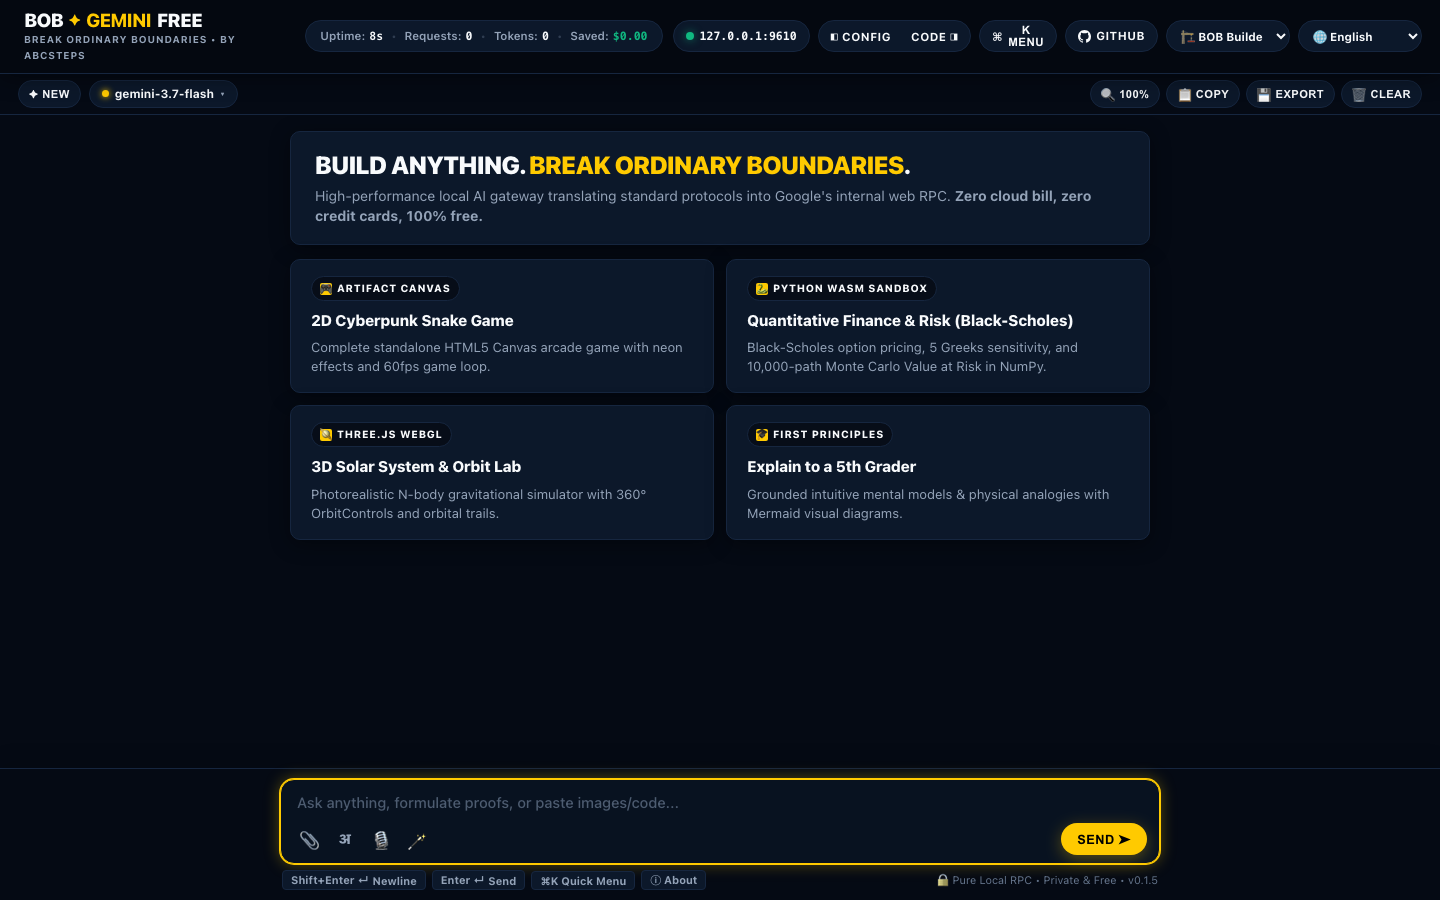
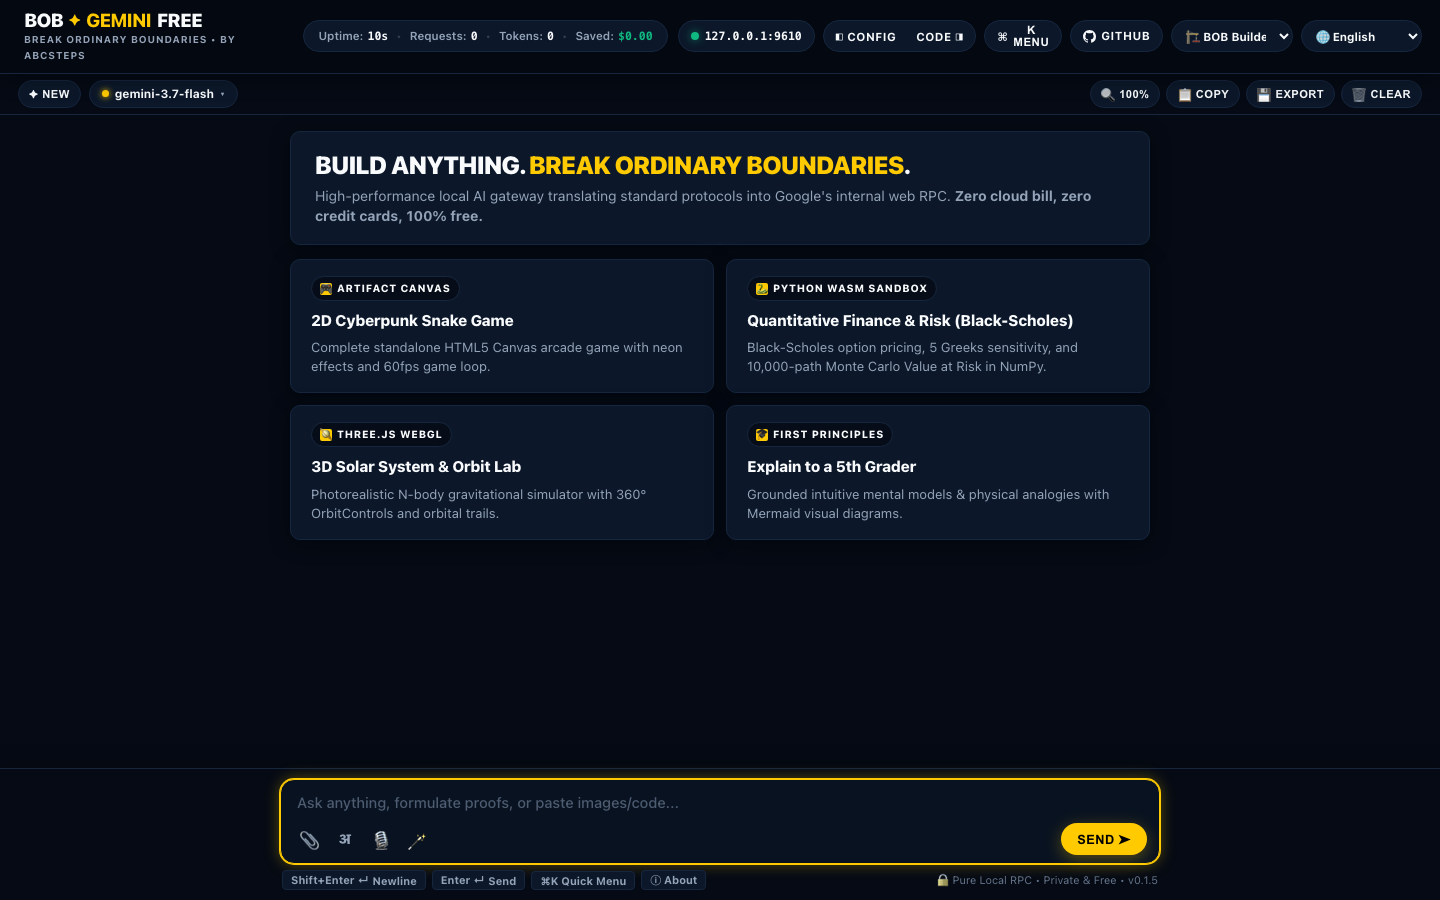
docs: sync README.md, README.hi.md, and polish mobile footer padding for v0.1.5 release

Changed region(s): [[0.2188, 0.0311, 0.9688, 0.0622]]

diff --git a/internal/server/playground.html b/internal/server/playground.html
@@ -2409,7 +2409,7 @@ tr:hover td { background: rgba(255, 255, 255, 0.02); }
 
   /* Spacious Studio Input Capsule on Mobile */
   .studio-input-area {
-    padding: 6px 10px max(8px, env(safe-area-inset-bottom)) 10px;
+    padding: 6px 10px max(6px, env(safe-area-inset-bottom)) 10px;
     box-shadow: 0 -4px 16px rgba(0, 0, 0, 0.15);
     width: 100%;
     max-width: 100%;
@@ -2418,6 +2418,7 @@ tr:hover td { background: rgba(255, 255, 255, 0.02); }
   .studio-input-container {
     width: 100%;
     max-width: 100%;
+    gap: 4px;
   }
   .studio-input-capsule {
     border-radius: 12px;
@@ -2476,16 +2477,19 @@ tr:hover td { background: rgba(255, 255, 255, 0.02); }
   }
   .input-footer {
     justify-content: center;
-    padding-top: 2px;
+    padding: 2px 0 0 0;
+    margin: 0;
   }
   .footer-badges {
     justify-content: center;
     flex-wrap: wrap;
     gap: 4px;
+    margin: 0;
   }
   .footer-action-btn {
-    font-size: 0.64rem;
-    padding: 3px 8px;
+    font-size: 0.65rem;
+    padding: 2px 8px;
+    line-height: 1.2;
     touch-action: manipulation;
   }
   .sidebar-panel,

diff --git a/web/index.html b/web/index.html
@@ -2409,7 +2409,7 @@ tr:hover td { background: rgba(255, 255, 255, 0.02); }
 
   /* Spacious Studio Input Capsule on Mobile */
   .studio-input-area {
-    padding: 6px 10px max(8px, env(safe-area-inset-bottom)) 10px;
+    padding: 6px 10px max(6px, env(safe-area-inset-bottom)) 10px;
     box-shadow: 0 -4px 16px rgba(0, 0, 0, 0.15);
     width: 100%;
     max-width: 100%;
@@ -2418,6 +2418,7 @@ tr:hover td { background: rgba(255, 255, 255, 0.02); }
   .studio-input-container {
     width: 100%;
     max-width: 100%;
+    gap: 4px;
   }
   .studio-input-capsule {
     border-radius: 12px;
@@ -2476,16 +2477,19 @@ tr:hover td { background: rgba(255, 255, 255, 0.02); }
   }
   .input-footer {
     justify-content: center;
-    padding-top: 2px;
+    padding: 2px 0 0 0;
+    margin: 0;
   }
   .footer-badges {
     justify-content: center;
     flex-wrap: wrap;
     gap: 4px;
+    margin: 0;
   }
   .footer-action-btn {
-    font-size: 0.64rem;
-    padding: 3px 8px;
+    font-size: 0.65rem;
+    padding: 2px 8px;
+    line-height: 1.2;
     touch-action: manipulation;
   }
   .sidebar-panel,

diff --git a/README.hi.md b/README.hi.md
@@ -190,10 +190,15 @@ chmod +x install.sh
 
 #### 🌟 100% असीमित स्केलेबिलिटी व अत्याधुनिक क्लाइंट क्षमताएँ:
 * 🔒 **100% ऑन-डिवाइस प्राइवेसी**: जब आप [bob-gemini-free.abcsteps.com](https://bob-gemini-free.abcsteps.com/) खोलते हैं, तो यह सीधे आपके लोकल गेटवे `http://127.0.0.1:9610` से जुड़ता है। आपकी कोई भी चैट या प्रॉम्प्ट किसी क्लाउड सर्वर पर नहीं जाती।
+* 🐍 **1,000,000-छात्रों के पैमाने पर इन-ब्राउज़र Pyodide WASM Python सैंडबॉक्स**: CPython 3.11 को बिना किसी सर्वर-साइड जोखिम, बिना Python इंस्टालेशन और शून्य बिलिंग के सीधे ब्राउज़र में चलाएँ। इंटरैक्टिव `input()` और साइंटिफिक पैकेजेस (`numpy`, `pandas`, `matplotlib`, `scipy`, `sympy`) का ऑटो-लोडर।
 * ⚡ **नेटिव क्लाइंट-साइड इंटरैक्टिव आर्टिफ़ैक्ट्स इंजन (Claude-Style Live Canvas)**: HTML5 वेब ऍप्लिकेशन्स, CSS3 एनिमेशन्स, Canvas 2D/WebGL गेम्स, SVG वेक्टर ग्राफिक्स और Mermaid डायग्राम्स को 1-क्लिक **`Launch ⚡`** चिप से सीधे सैंडबॉक्स्ड स्टूडियो मोडल (`[ ▶ Preview | ⟨/⟩ Code ]`) में चलाएँ।
+* 🪄 **लाइव AI प्रॉम्प्ट मेटाप्रॉम्प्टर वैंड इंजन (`🪄`)**: बैकग्राउंड में `gemini-3.7-flash` द्वारा आपके सामान्य विचारों को ~200ms में संरचित मास्टर प्रॉम्प्ट्स में बदलने की सुविधा (`⌘ + Shift + P`)।
+* 🔍 **नॉन-ब्रेकिंग रीडिंग टेक्स्ट ज़ूम कंट्रोलर (`🔍 100%`)**: सब-बार चिप, `⌘+`/`⌘-`/`⌘0` और कमांड पैलेट द्वारा पूरे लेआउट को बिना तोड़े पढ़ने के फॉन्ट साइज़ को बढ़ाएँ/घटाएँ।
+* 🏛 **यूनिफ़ाइड सेक्रेड ज्योमेट्री स्टूडियो इनपुट कैप्सूल**: मोबाइल व डेस्कटॉप दोनों पर टेक्स्टएरिया, विज़न अटैचमेंट्स, टूल्स (`📎`, `अ`, `🎙`, `🪄`) और स्वर्णिम `SEND ➤` बटन को समाहित करने वाला एकल कैप्सूल।
+* 🎙 **नेचुरल HD स्पीच स्टूडियो व फ्लोटिंग ऑडियो बार**: NotebookLM-श्रेणी का न्यूरल वॉइस सिंथेसाइज़र (Play/Pause, `0.8x`–`1.5x` स्पीड, और 4-बार लाइव इक्वलाइज़र)।
+* ✏ **इन-प्लेस मैसेज एडिटिंग व रीवाइंड**: पुराने संदेशों को सीधे इनलाइन एडिट (`✏`) करने और चैट को वहीं से फिर से शुरू करने की सुविधा।
 * 🌐 **द्विभाषी व 8 क्षेत्रीय लिपियों में इंटरफ़ेस**: 1-क्लिक हेडर स्विचर व ⌘K शॉर्टकट (`L1` English, `L2` हिन्दी), साथ में 8 भारतीय लिपियों का समर्थन (हिन्दी, संस्कृतम्, मराठी, বাংলা, ગુજરાતી, தமிழ், తెలుగు, ਪੰਜਾਬੀ)।
 * ✍ **रीयल-टाइम फोनेटिक लिप्यंतरण (Backspace Undo के साथ)**: अंग्रेज़ी अक्षरों में टाइप करने पर (`"namaste"`) स्पेस दबाते ही शुद्ध देवनागरी (`"नमस्ते"`) में परिवर्तन। `Backspace` दबाते ही शब्द वापस अंग्रेज़ी अक्षरों में बदल जाता है।
-* 🎙 **नेटिव वॉइस इनपुट (Web Speech API)**: बिना किसी बाहरी API या क्लाउड शुल्क के ब्राउज़र द्वारा सीधे हिंदी व अंग्रेज़ी में बोलकर टाइप करने की सुविधा।
 * 🏛 **भारतीय स्कूल कंप्यूटर लैब मास्टर आर्किटेक्चर**: 1-प्रोसेस LAN होस्ट मोड (`--host 0.0.0.0 --port 9610`) द्वारा 30-कंप्यूटर वाली लैब में 240+ छात्रों को ₹0 में स्थानीय एआई का लाभ।
 * 🧠 **लाइव रीज़निंग विज़ुअलाइज़र**: Gemini 3.7 Flash Thinking के रीज़निंग टोकन्स को रीयल-टाइम में प्रवाहित होते हुए देखें।
 * ⚡ **मॉडल व थिंकिंग स्विचर**: तेज़ मॉडल्स, डीप रीज़निंग, या Imagen 3 इमेज सिंथेसिस को एक क्लिक में टेस्ट करें।

diff --git a/README.md b/README.md
@@ -225,10 +225,15 @@ Access the built-in, zero-dependency visual studio directly in your web browser:
 
 #### 🌟 100% Unlimited Scalability & State-of-the-Art Client Capabilities:
 * 🔒 **100% On-Device Privacy**: When loaded from [bob-gemini-free.abcsteps.com](https://bob-gemini-free.abcsteps.com/), the static web studio auto-discovers and connects directly to your local BOB gateway engine at `http://127.0.0.1:9610` using Chrome Private Network Access (PNA). No prompts, chats, or thinking tokens ever touch intermediate cloud servers.
-* ⚡ **Native Client-Side Interactive Artifacts Engine (Claude-Class Live Canvas)**: Automatically detects and compiles standalone HTML5 applications, CSS3 animations, Canvas 2D/WebGL simulations, SVG vector graphics, and Mermaid diagrams with 1-click **`Launch ⚡`** chips, a sandboxed `iframe` studio modal (`[ ▶ Preview | ⟨/⟩ Code ]`), sandbox reload (`⟳`), source copy, and standalone window pop-out (`⛶`).
+* 🐍 **1,000,000-Student Scale In-Browser Pyodide WASM Python Sandbox**: Live client-side CPython 3.11 execution in an isolated WebAssembly sandbox with zero server-side execution risk, zero Python setup, interactive `input()` support, and automatic scientific package wheel streaming (`numpy`, `pandas`, `matplotlib`, `scipy`, `sympy`).
+* ⚡ **Native Interactive Artifacts Canvas Studio (Claude-Class Live Sandbox)**: Automatically detects and compiles standalone HTML5 applications, CSS3 animations, Canvas 2D/WebGL simulations, SVG vector graphics, and Mermaid diagrams with 1-click **`Launch ⚡`** chips, a sandboxed `iframe` studio modal (`[ ▶ Preview | ⟨/⟩ Code ]`), sandbox reload (`⟳`), source copy, and standalone window pop-out (`⛶`).
+* 🪄 **Live AI Prompt Metaprompting Wand Engine (`🪄`)**: Background prompt optimization powered by `gemini-3.7-flash` that transforms rough thoughts into structured master specifications in ~200ms with seamless offline fallback (`⌘ + Shift + P`).
+* 🔍 **Non-Breaking Reading Text Zoom Controller (`🔍 100%`)**: Targeted typography scaling (`calc(0.92rem * var(--reading-zoom))`) via sub-bar pill, `⌘+`/`⌘-`/`⌘0`, and Command Palette without breaking outer geometry, headers, or navigation.
+* 🏛 **Unified Sacred Geometry Studio Input Capsule**: Single cohesive dark-glass input capsule seamlessly housing auto-expanding textarea, vision attachments, power tools (`📎`, `अ Indic`, `🎙 Voice`, `🪄 AI Wand`), and the golden `SEND ➤` CTA across mobile and desktop.
+* 🎙 **Natural HD Speech Studio & Floating Audio Controller Bar**: NotebookLM-class neural voice synthesis with Play/Pause (`⏸`/`▶`), speed cycling (`0.8x`–`1.5x`), 4-bar sound equalizer (`ılılı`), and sentence progress tracking.
+* ✏ **In-Place User Message Editing & Conversation Branching**: Inline editing with `✏`, auto-growing editor, and conversation rewind (`Ctrl+Enter` / `Escape`).
 * 🌐 **Bilingual & Multi-Indic Internationalization (`en` / `hi` + 8 Regional Scripts)**: 1-click dynamic language switcher and ⌘K shortcuts (`L1` English, `L2` हिन्दी), with support for 8 regional Indic scripts (हिन्दी, संस्कृतम्, मराठी, বাংলা, ગુજરાતી, தமிழ், తెలుగు, ਪੰਜਾਬੀ).
 * ✍ **Real-Time Indic Phonetic Transliteration with Backspace Undo**: Space-key dynamic conversion of Roman transliteration (`"namaste"`, `"aap kaise ho"`) into native Devanagari (`"नमस्ते"`, `"आप कैसे हो"`). Hitting `Backspace` instantly reverts converted words back to their original Roman characters.
-* 🎙 **Native Web Speech Voice Recognition**: Client-side voice dictation via the browser's native `SpeechRecognition` API supporting zero-latency English and Hindi speech-to-text with zero backend overhead.
 * 🏛 **Indian School Computer Lab LAN Master Architecture**: 1-process LAN host topology (`--host 0.0.0.0 --port 9610`) enabling 30-PC computer labs with 240+ daily students to access local AI at ₹0 cost on <25MB RAM.
 * 👁 **Multimodal Vision Engine**: Attach files (`📎`), drag-and-drop images onto the canvas, or paste screenshots directly from your clipboard (`⌘V` / `Ctrl+V`).
 * 🧠 **Real-Time Reasoning Visualizer**: Stream step-by-step thinking tokens live inside isolated reasoning cards without distracting from the main response.
